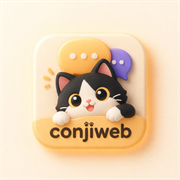
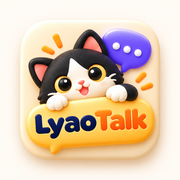
Complete Lyao Talk visible branding

diff --git a/apps/web/src/utils/i18n.ts b/apps/web/src/utils/i18n.ts
@@ -123,7 +123,7 @@ const enUS = {
     "omemo.deviceUntrusted": "Device marked untrusted",
     "omemo.enabled": "OMEMO enabled",
     "omemo.disabled": "OMEMO disabled",
-    "omemo.enabledNotice": "OMEMO encryption enabled. If a recipient has no OMEMO keys, LiaoT will ask before sending plaintext.",
+    "omemo.enabledNotice": "OMEMO encryption enabled. If a recipient has no OMEMO keys, Lyao Talk will ask before sending plaintext.",
     "omemo.sendPlaintextConfirm": "This contact has no OMEMO keys available. Send this message without end-to-end encryption?",
     "omemo.sentPlaintext": "Sent without end-to-end encryption",
     "omemo.trust.trusted": "Trusted (BTBV)",
@@ -210,7 +210,7 @@ const enUS = {
     "login.jid": "XMPP Address (JID)",
     "login.username": "Username",
     "login.password": "Password",
-    "login.inviteHint": "Invited to {domain}. You can enter only a username, and LiaoT will complete the JID.",
+    "login.inviteHint": "Invited to {domain}. You can enter only a username, and Lyao Talk will complete the JID.",
     "login.jidInvitePlaceholder": "username or user@{domain}",
     "login.jidAutoCompleteHint": "Enter only your username to sign in as username@{domain}.",
     "login.ssoDivider": "Or sign in with",
@@ -224,7 +224,7 @@ const enUS = {
     "login.registerUnavailable": "Registration is not available yet. Please contact the administrator.",
     "login.connectedAs": "Connected as",
     "login.connectionFailed": "Connection failed",
-    "login.version": "LiaoT · Open Source · v3.0.0",
+    "login.version": "Lyao Talk · Open Source",
 
     "settings.title": "Settings",
     "settings.subtitle": "Manage accounts and preferences",
@@ -276,7 +276,7 @@ const enUS = {
     "settings.omemoStatusOff": "Status: disabled (unlock icon on top bar)",
 
     "plugins.title": "Plugins",
-    "plugins.subtitle": "Extend LiaoT with powerful add-ons",
+    "plugins.subtitle": "Extend Lyao Talk with powerful add-ons",
     "plugins.disabled": "disabled",
     "plugins.enabled": "enabled",
     "plugins.disable": "Disable",
@@ -666,7 +666,7 @@ const zhCN: Record<MessageKey, string> = {
     "login.jid": "XMPP 地址（JID）",
     "login.username": "用户名",
     "login.password": "密码",
-    "login.inviteHint": "已受邀加入 {domain}。你可以只输入用户名，LiaoT 会自动补全 JID。",
+    "login.inviteHint": "已受邀加入 {domain}。你可以只输入用户名，Lyao Talk 会自动补全 JID。",
     "login.jidInvitePlaceholder": "用户名 或 user@{domain}",
     "login.jidAutoCompleteHint": "只输入用户名也可以，登录时会自动补全为 用户名@{domain}。",
     "login.ssoDivider": "或使用以下方式登录",
@@ -680,7 +680,7 @@ const zhCN: Record<MessageKey, string> = {
     "login.registerUnavailable": "当前版本暂未开放注册，请联系管理员。",
     "login.connectedAs": "已连接账号",
     "login.connectionFailed": "连接失败",
-    "login.version": "LiaoT · 开源版 · v3.0.0",
+    "login.version": "Lyao Talk · 开源版",
 
     "settings.title": "设置",
     "settings.subtitle": "管理账号与偏好配置",
@@ -732,7 +732,7 @@ const zhCN: Record<MessageKey, string> = {
     "settings.omemoStatusOff": "状态：已关闭（顶部栏显示解锁图标）",
 
     "plugins.title": "插件",
-    "plugins.subtitle": "通过插件扩展 LiaoT 功能",
+    "plugins.subtitle": "通过插件扩展 Lyao Talk 功能",
     "plugins.disabled": "已禁用",
     "plugins.enabled": "已启用",
     "plugins.disable": "禁用",

diff --git a/apps/web/src/pages/SettingsPage.tsx b/apps/web/src/pages/SettingsPage.tsx
@@ -269,7 +269,7 @@ function AccountCard({ account }: { account: XmppAccount }) {
       <div className="grid grid-cols-1 md:grid-cols-2 gap-3">
         <ShareQr
           title={label("添加我为联系人", "Add me as a contact")}
-          description={label("联系人扫描后会打开 LiaoT 并添加你的 XMPP 地址。", "Scan to open LiaoT and add this XMPP address.")}
+          description={label("联系人扫描后会打开 Lyao Talk 并添加你的 XMPP 地址。", "Scan to open Lyao Talk and add this XMPP address.")}
           payload={contactUrl}
           copyText={bareJid}
         />
@@ -702,7 +702,7 @@ export default function SettingsPage() {
           </div>
         </section>
 
-        <p className="text-xs text-surface-200/20 text-center">LiaoT · v{__APP_VERSION__}</p>
+        <p className="text-xs text-surface-200/20 text-center">Lyao Talk · v{__APP_VERSION__}</p>
       </div>
     </div>
   );

diff --git a/apps/web/src/services/xmppAdapter.ts b/apps/web/src/services/xmppAdapter.ts
@@ -1711,7 +1711,7 @@ export class XmppClient {
    */
   private async _computeCapsHash(): Promise<string> {
     const features = [...XmppClient.SUPPORTED_FEATURES].sort();
-    const idString = "client/web//LiaoT<" + features.join("<") + "<";
+    const idString = "client/web//Lyao Talk<" + features.join("<") + "<";
     const buf = new TextEncoder().encode(idString);
     const hash = await crypto.subtle.digest("SHA-1", buf);
     // base64 encode
@@ -1735,7 +1735,7 @@ export class XmppClient {
           xmlns: "http://jabber.org/protocol/disco#info",
           ...(requestedNode ? { node: requestedNode } : {}),
         })
-        .c("identity", { category: "client", type: "web", name: "LiaoT" }).up();
+        .c("identity", { category: "client", type: "web", name: "Lyao Talk" }).up();
       for (const feature of XmppClient.SUPPORTED_FEATURES) {
         reply.c("feature", { var: feature }).up();
       }

diff --git a/apps/web/src/utils/pwa.ts b/apps/web/src/utils/pwa.ts
@@ -1,4 +1,4 @@
-// PWA utilities for LiaoT
+// PWA utilities for Lyao Talk
 
 /**
  * Check if app is running in standalone (installed PWA) mode
@@ -35,7 +35,7 @@ export function canInstall(): boolean {
 /**
  * Update document title with unread count
  */
-export function updateTabTitle(unreadCount: number, baseTitle = "LiaoT") {
+export function updateTabTitle(unreadCount: number, baseTitle = "Lyao Talk") {
   document.title = unreadCount > 0 ? `(${unreadCount}) ${baseTitle}` : baseTitle;
 }
 

diff --git a/apps/web/src/sw.ts b/apps/web/src/sw.ts
@@ -76,7 +76,7 @@ self.addEventListener("push", (event: PushEvent) => {
     .replace(/[\u0000-\u001f\u007f\\/]/g, "")
     .slice(0, 128);
 
-  const title = stripCtrl(data.title || "LiaoT").slice(0, 100);
+  const title = stripCtrl(data.title || "Lyao Talk").slice(0, 100);
   const options: NotificationOptions = {
     body: stripCtrl(data.body || "").slice(0, 500),
     icon: "/icon-192.png",

diff --git a/apps/api/app/api/routers/attachments.py b/apps/api/app/api/routers/attachments.py
@@ -231,7 +231,7 @@ async def share_attachment(
     recipient_jid = payload.recipient_jid.split("/", 1)[0].lower()
     recipient = await db.scalar(select(Account).where(Account.jid == recipient_jid, Account.is_enabled.is_(True)))
     if recipient is None:
-        raise HTTPException(status_code=422, detail="Recipient must have an active LiaoT account")
+        raise HTTPException(status_code=422, detail="Recipient must have an active Lyao Talk account")
     existing = await db.scalar(select(AttachmentGrant.id).where(
         AttachmentGrant.attachment_id == attachment_id,
         AttachmentGrant.account_id == recipient.id,

diff --git a/apps/api/app/main.py b/apps/api/app/main.py
@@ -61,9 +61,9 @@ async def lifespan(app: FastAPI):
 APP_VERSION = get_app_version()
 
 app = FastAPI(
-    title="LiaoT API",
+    title="Lyao Talk API",
     version=APP_VERSION,
-    description="Backend API for the LiaoT web XMPP client platform.",
+    description="Backend API for the Lyao Talk web XMPP client platform.",
     openapi_tags=[
         {"name": "auth", "description": "Authentication endpoints. Public."},
         {"name": "accounts", "description": "XMPP account management. Users can access their own account; admins can access all."},

diff --git a/apps/api/app/api/routers/preview.py b/apps/api/app/api/routers/preview.py
@@ -161,7 +161,7 @@ async def link_preview(
             follow_redirects=False,
             trust_env=False,
             transport=PublicIPTransport(limits=httpx.Limits(max_connections=5)),
-            headers={"User-Agent": "LiaoTBot/1.0 (link preview)"},
+            headers={"User-Agent": "LyaoTalkBot/1.0 (link preview)"},
         ) as client:
             current_url = url
             status_code = None
